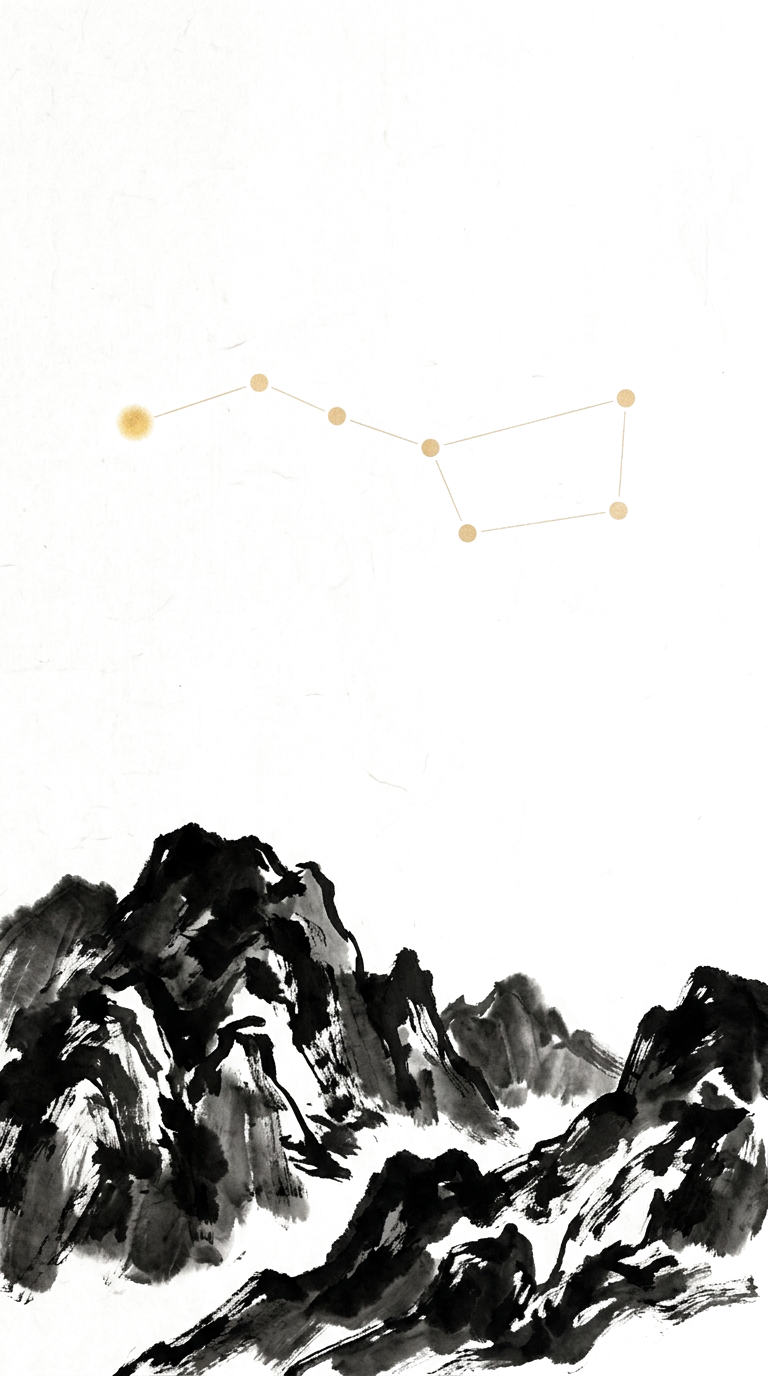
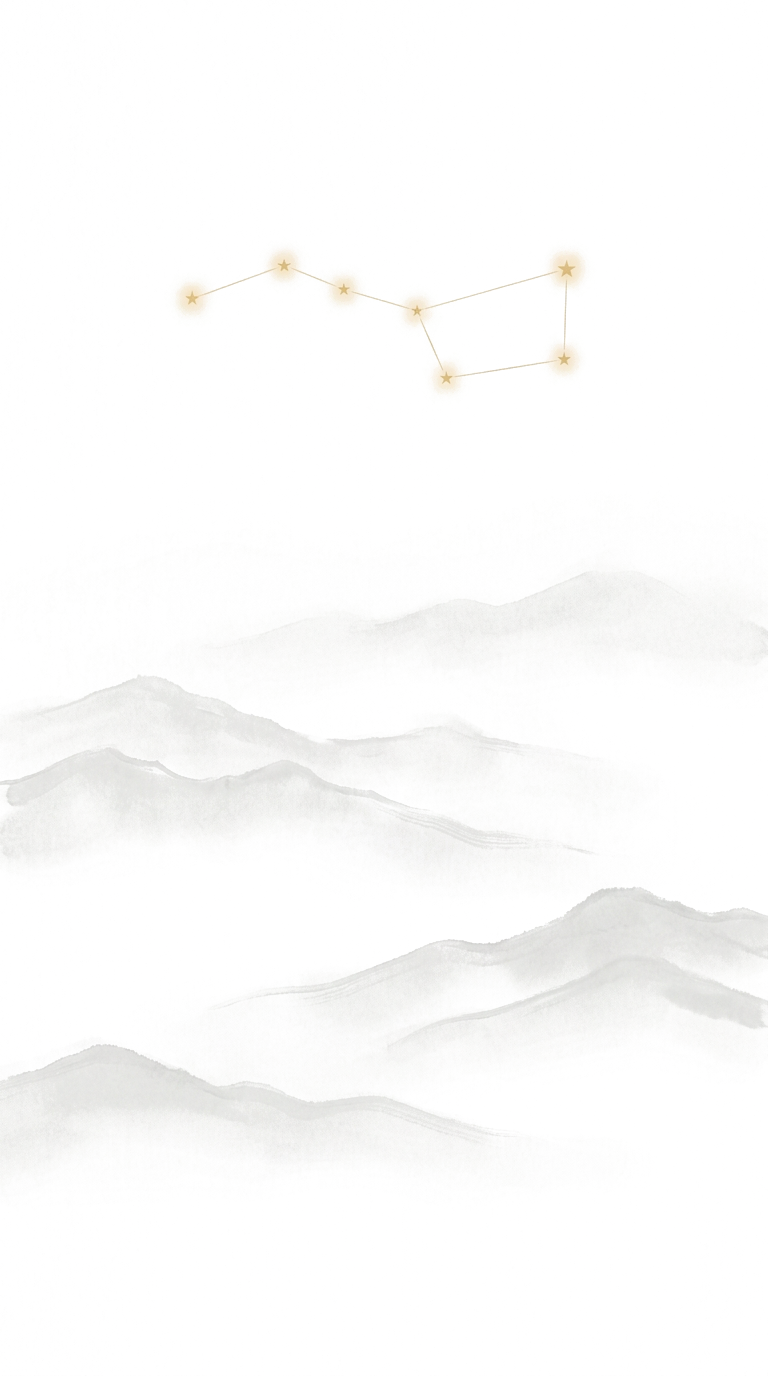
fix(web): light mountains regenerated — faint grey misty layers + gold stars
Same ethereal shanshui style as dark/classical themes.
Opacity restored to 40%/30%.

diff --git a/packages/web/src/index.css b/packages/web/src/index.css
@@ -243,7 +243,7 @@
   inset: 0;
   background: url('/classical/ink-mountains-light.png') no-repeat bottom center;
   background-size: 100% auto;
-  opacity: 0.2;
+  opacity: 0.4;
   pointer-events: none;
   z-index: 0;
 }
@@ -256,7 +256,7 @@
   inset: 0;
   background: url('/classical/ink-mountains-light.png') no-repeat bottom center;
   background-size: cover;
-  opacity: 0.15;
+  opacity: 0.3;
   pointer-events: none;
   z-index: 0;
 }
